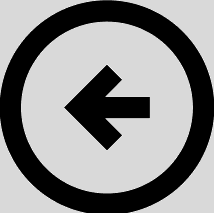
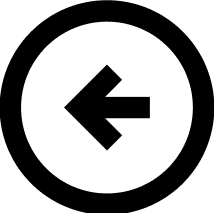
added back button

diff --git a/makeChallenge.html b/makeChallenge.html
@@ -17,11 +17,11 @@
 </head>
 
 <body>
-    <button onclick="history.back()">Go Back</button>
 
     <div id="input-field">
-        <img id="back-button" src="./public/images/back.png" alt="Back">
-
+        <button onclick="history.back()">
+            <img id="back-button" src="./public/images/back.png" alt="Back">
+        </button>
         <form id="challengeForm">
             <h1>What's your challenge?</h1>
             <input type="text" id="challengeTitle" placeholder="Enter your challenge" required>
